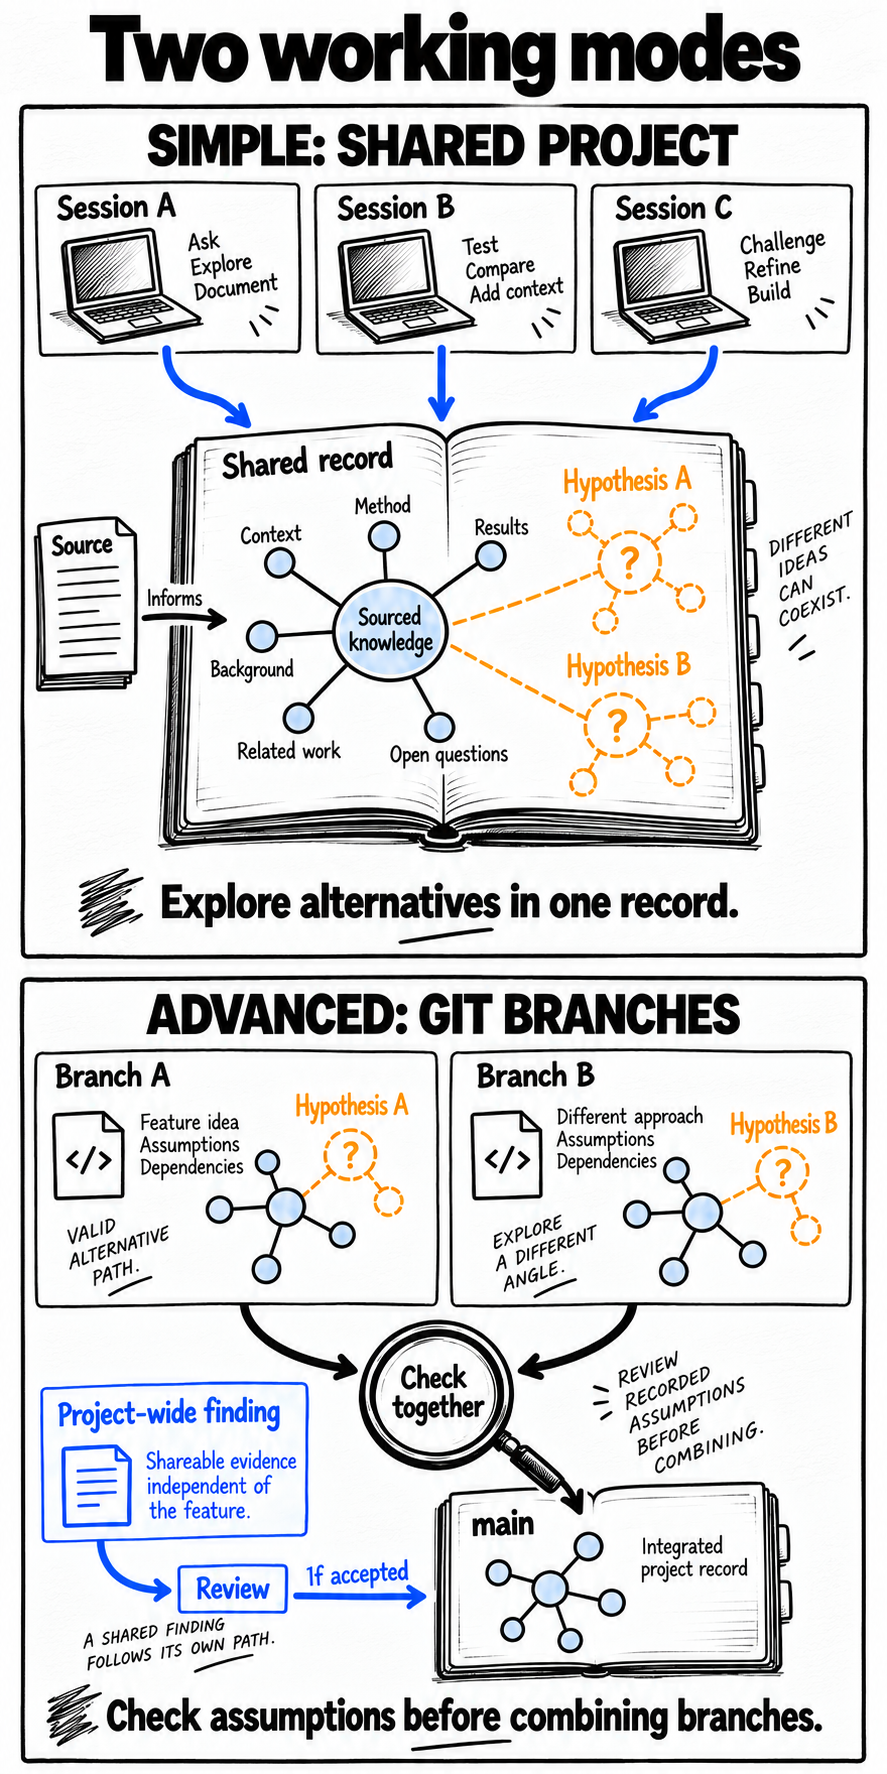
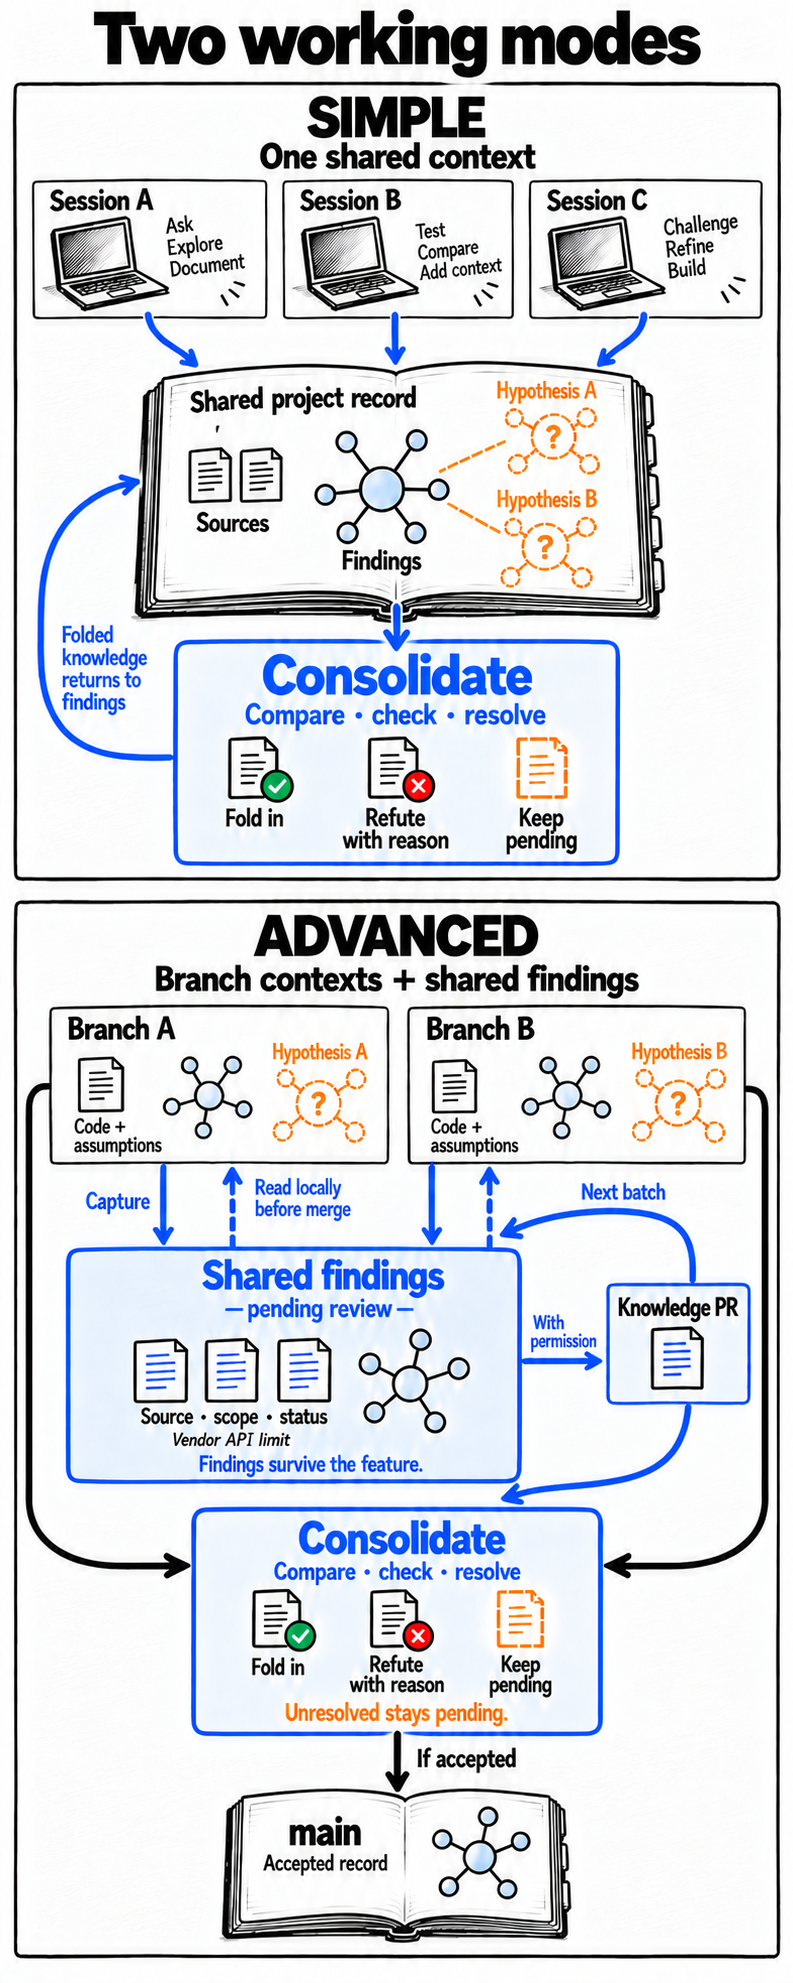
Explain working modes and consolidation in README

diff --git a/README.md b/README.md
@@ -466,37 +466,68 @@ where the conversation can safely continue without that result.
 
 ### Two working modes
 
+The difference is **whether sessions share one project context or work against different
+versions of the code**. Both modes support several sessions and competing hypotheses.
+
 <picture>
   <source media="(max-width: 640px)" srcset="assets/diagrams/two-working-modes-mobile.png">
-  <img src="assets/diagrams/two-working-modes.png" alt="Two working modes: Simple sessions share one sourced project record with competing hypotheses; Advanced branches retain their own assumptions and hypotheses, while shareable project findings follow review and acceptance into main.">
+  <img src="assets/diagrams/two-working-modes.png" alt="Two working modes. Simple: sessions share one sourced project record and competing hypotheses; consolidation compares and checks proposals, then folds them into the record, refutes them with a reason, or leaves them pending. Advanced: each branch keeps the assumptions and hypotheses for its code. Branch records pass through consolidation before integration into main. A continuing Shared findings, pending review path captures feature-independent findings with their source, scope and status. Dashed arrows show local reading before merge. With permission, findings enter a knowledge PR, where consolidation reconciles them with the target record before acceptance. Both paths reach the same main record; the shared path continues for the next batch.">
 </picture>
 
 [View the full-size illustration](assets/diagrams/two-working-modes.png) ·
 [View the vertical version](assets/diagrams/two-working-modes-mobile.png)
 
-**Simple** keeps one project graph shared by its sessions. Competing ideas are named
-hypotheses beside that graph: several sessions can examine the same proposal, and one
-session can work on several. Projects without Git start here.
+**Simple — one shared context.** Sessions read and contribute to the same project graph.
+Competing ideas are named hypotheses beside it: several sessions can examine the same
+proposal, and one session can work on several. For a research project, for example, sessions
+can read different papers and compare explanations against the same sourced record.
+**Consolidation** is how those proposals become part of the shared record: compare them
+with what it already holds, check the combined dependencies and resolve conflicting claims.
+A proposal can be folded in, refuted with its reason retained, or left pending.
 
-**Advanced** adds Git branch contexts. Each branch's record describes the version of the
-project being examined, even if the repository has only one checkout. New Git projects
-start here. Existing registered shared records keep their current location and behavior;
-changing mode requires explicit reconciliation.
+**Advanced — branch contexts and shared findings.** Each branch's record describes its
+version of the code. A cache decision on one branch may depend on results being public,
+while another branch introduces private results. Keeping those premises with their branches
+lets review check whether the reasoning still holds when the changes are combined.
+Consolidation reconciles those records: it identifies overlapping subjects and conflicting
+claims, and checks which decisions need another look under the combined premises. Resolve
+what needs judgment before folding a proposal in; unresolved hypotheses remain explicit.
 
-In Advanced, shareable findings that apply to the project independently of a feature go
-into `pending_grounding`. Other local worktrees can read them immediately with their source,
-scope and pending status. With the project's publication permission, they accumulate in
-one review PR. After accepted contributions are verified in the target branch, the same
-`pending_grounding` branch is reused for the next batch. Closing the original session or
-removing its worktree does not erase the pending work.
+Knowledge then follows two paths:
+
+- **Feature knowledge travels with its branch.** Its assumptions, measurements and
+  hypotheses stay attached to the code they describe. Consolidation tests their combination
+  with the target record as part of reviewing the change.
+- **Shared findings have a continuing path of their own.** Shareable findings that apply
+  independently of the feature enter `pending_grounding`, with their sources and scope.
+  They remain available even if the originating session closes or its worktree is removed.
+
+Suppose a session building an integration discovers a documented change to the vendor's
+API limit. **The feature may be abandoned; the finding can still help the project.** Other
+local worktrees can read it immediately, marked as pending, without waiting for the feature
+to merge. It appears alongside their branch record; reading it does not adopt it or replace
+their recorded premises.
+
+With the project's publication permission, shared findings accumulate in one knowledge PR.
+Consolidation reconciles the proposed knowledge with the target record before acceptance;
+conflicts and changed premises need resolution. Accepted contributions are then verified
+in the target branch, shown as `main` above. The same publication branch is reused for
+the next batch, while the local contribution history persists across review cycles. Local
+capture and reading also work without publication.
 
 A measurement of an unmerged commit can be a fact about that commit. A proposed conclusion
 remains a hypothesis. Merging means the team accepted the contribution; it does not prove
 the claim, increase confidence or refresh its last review. Private material and information
 whose sharing permission is unclear stay in a structured private draft.
 
+Projects without Git start in Simple; new Git projects start in Advanced, including those
+with only one checkout. Simple can also be configured for a Git project with one external
+shared record. Existing registered shared records keep their current location and behavior;
+changing mode requires explicit reconciliation.
+
 See [project modes and publication](docs/project-modes.md) for routing, reproducible reads
-and the publication lifecycle.
+and the publication lifecycle, and [consolidation](skills/consolidate/SKILL.md) for the
+dry run, folding and refutation commands.
 
 ### The knowledge record
 
